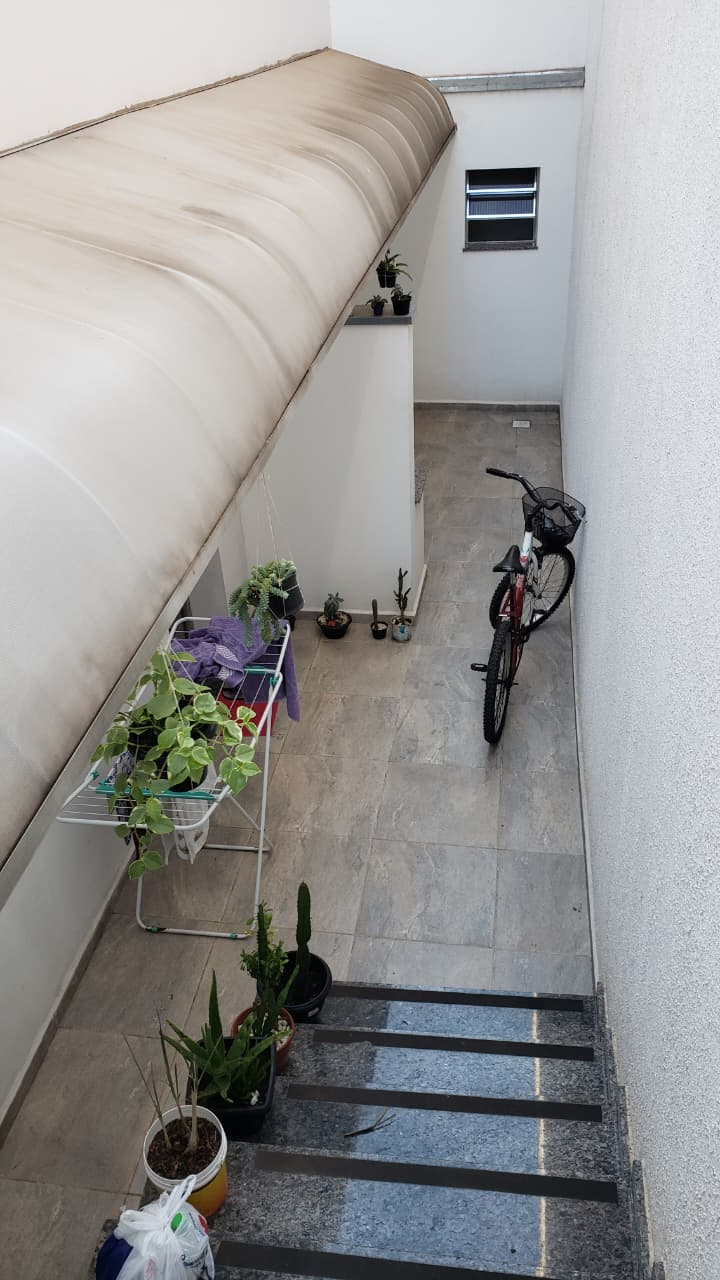
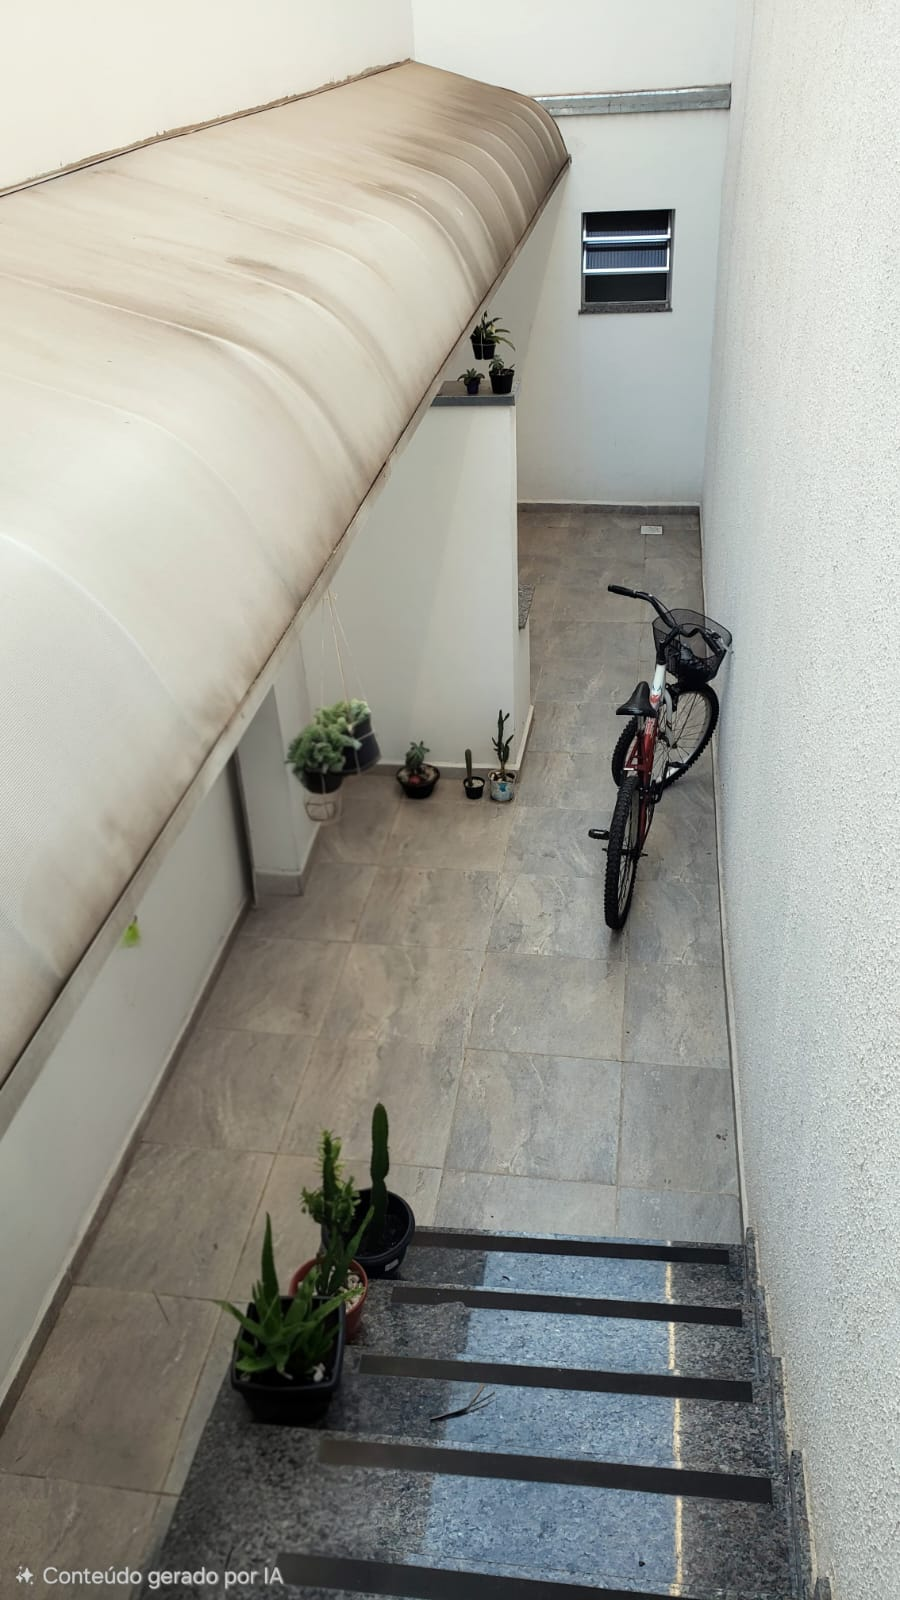
Add files via upload

Changed region(s): [[0.0306, 0.4375, 0.4278, 1.0], [0.0, 0.6562, 0.0306, 0.6875]]

diff --git a/index.html b/index.html
@@ -376,7 +376,12 @@ const CONFIG = {
     "foto5.jpeg",
     "foto6.jpeg",
     "foto7.jpeg",
-    "foto8.jpeg"
+    "foto8.jpeg",
+    "foto9.jpeg",
+    "foto10.jpeg",
+    "foto11.jpeg",
+    "foto12.jpeg",
+    "foto13.jpeg"
   ],
 
   comodidades: ["Wi-Fi", "TV", "Cozinha equipada", "Eletrodomésticos", "Máquina lava e seca", "Mobiliado", "Roupa de cama", "2 jogos de toalha", "Estacionamento gratuito no local", "Quintal nos fundos", "Câmeras de segurança (área externa)", "Totalmente privativo"],
